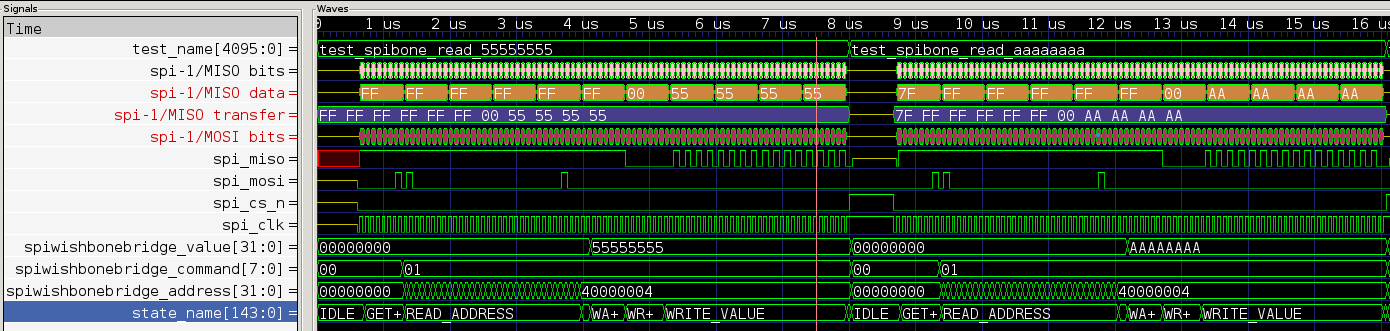
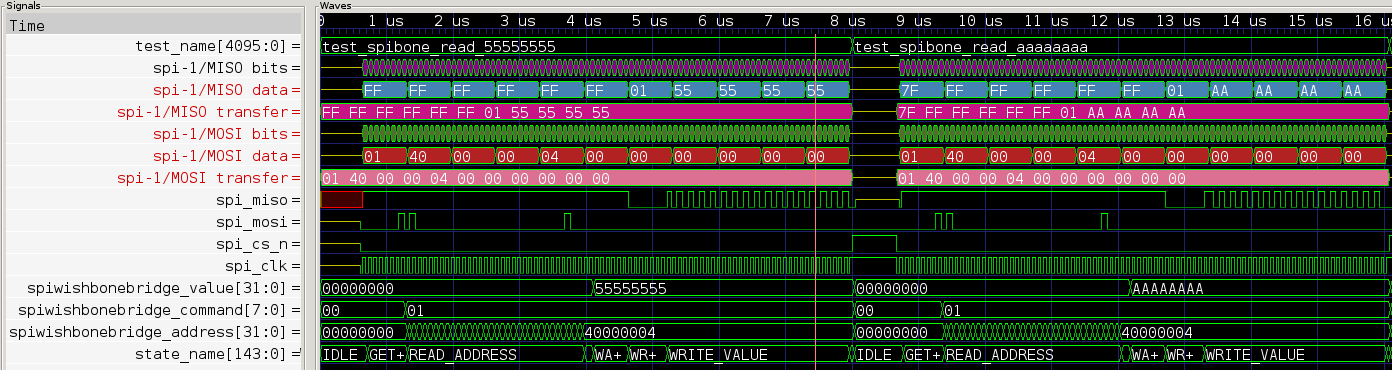
spibone: fix repsonse protocol
Previously we weren't generating the correct "response" byte.

diff --git a/sim/test-spibone.py b/sim/test-spibone.py
@@ -44,6 +44,7 @@ class SpiboneTest:
     @cocotb.coroutine
     def reset(self):
         self.dut.reset = 1
+        self.spi_cs_n = 1
         yield RisingEdge(self.dut.clk12)
         yield RisingEdge(self.dut.clk12)
         self.dut.reset = 0
@@ -61,9 +62,17 @@ class SpiboneTest:
 
     @cocotb.coroutine
     def host_spi_write_byte(self, val):
-        for shift in range(0, 8):
-            self.dut.spi_mosi = (val >> (7-shift)) & 1
+        for shift in range(7, -1, -1):
+            self.dut.spi_mosi = (val >> shift) & 1
             yield self.host_spi_tick()
+
+    @cocotb.coroutine
+    def host_spi_read_byte(self):
+        val = 0
+        for shift in range(7, -1, -1):
+            val = val | (int(self.dut.spi_miso) << shift)
+            yield self.host_spi_tick()
+        raise ReturnValue(val)
 
     @cocotb.coroutine
     def host_spi_write(self, addr, val):
@@ -86,12 +95,16 @@ class SpiboneTest:
         # Wait for response
         timeout_counter = 0
         while True:
-            if self.dut.spi_miso == 0:
+            if self.dut.spi_miso == 0 and (timeout_counter % 8) == 0:
                 break
             yield self.host_spi_tick()
             timeout_counter = timeout_counter + 1
             if timeout_counter > 200:
                 raise TestFailure("timed out waiting for response")
+
+        val = yield self.host_spi_read_byte()
+        if val != 0:
+            raise TestFailure("response byte was 0x{:02x}, not 0x00".format(val))
         self.dut.spi_cs_n = 1
 
     @cocotb.coroutine
@@ -111,17 +124,16 @@ class SpiboneTest:
         # Wait for response
         timeout_counter = 0
         while True:
-            if self.dut.spi_miso == 0:
-                break
             yield self.host_spi_tick()
+            if self.dut.spi_miso == 0 and (timeout_counter % 8) == 0:
+                break
             timeout_counter = timeout_counter + 1
             if timeout_counter > 200:
                 raise TestFailure("timed out waiting for response")
 
-        for i in range(0, 8):
-            if self.dut.spi_miso != 0:
-                raise TestFailure("spi_miso was not 0 during response header")
-            yield self.host_spi_tick()
+        val = yield self.host_spi_read_byte()
+        if val != 0x01:
+            raise TestFailure("response byte was 0x{:02x}, not 0x01".format(val))
 
         # Value
         val = 0

diff --git a/spibone.py b/spibone.py
@@ -157,7 +157,7 @@ class SpiWishboneBridge(Module):
         # Write the "00" byte that indicates a response
         fsm.act("WRITE_RESPONSE",
             If(counter == 7,
-                NextValue(miso, 0),
+                NextValue(miso, 1),
                 NextValue(counter, 33),
                 NextState("WRITE_VALUE")
             ),

diff --git a/sim/README.md b/sim/README.md
@@ -28,3 +28,22 @@ To run `gtkwave` with the Sigrok decoder, run `gtkwave -S gtkwave.init dump.vcd`
 **To get more levels of SPI decode**, right-click on the `Signals` area and select `Insert Blank`.  Then drag the new signal so that it is below `spi_decoded`.  You may do this multiple times.
 
 The main FSM exposes its current state name as a signal called `state_name`.  You can add this signal, then right-click on it and select `Data Format` -> `ASCII`.
+
+## Protocol
+
+The protocol for the SPI bridge is big-endian.  There are two distinct operations: Read and Write.
+
+```
+Read protocol:
+    Write: 01 | AA | AA | AA | AA
+    [Wishbone Operation]
+    Read:  01 | VV | VV | VV | VV
+Write protocol:
+    Write: 00 | AA | AA | AA | AA | VV | VV | VV | VV
+    [Wishbone Operation]
+    Read:  00
+"AA" is address, "VV" is value.  All bytes are big-endian.
+During the "Wishbone Operation" phase, the host constantly outputs "FF"
+until it has a response, at which point it outputs "00" (write)
+or "01" (read).
+```
